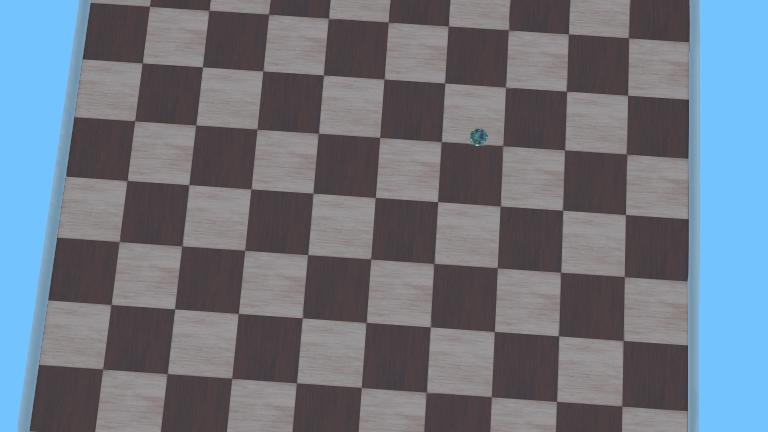
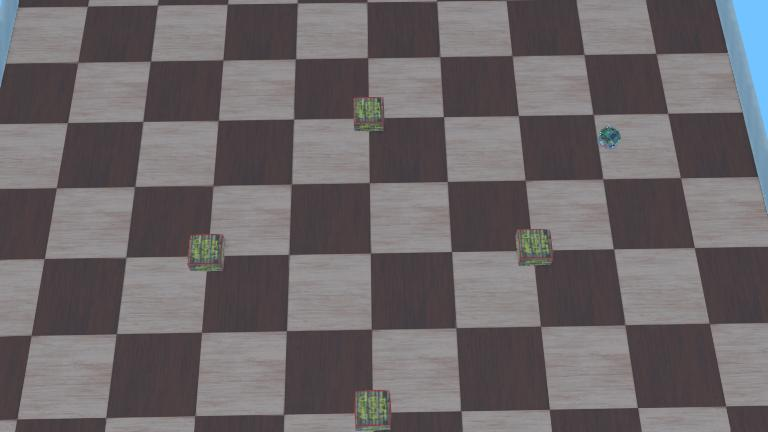
added obstacles, put encodersand sensors

diff --git a/controllers/robotito-controller/robotito-controller.py b/controllers/robotito-controller/robotito-controller.py
@@ -21,6 +21,23 @@ motor_der = robotito.getDevice("right wheel motor")
 motor_izq.setPosition(float('inf'))
 motor_der.setPosition(float('inf'))
 
+# sensores de proximidad
+ps_names = ['ps0', 'ps7', 'ps5', 'ps2']
+
+ps = []
+
+for name in ps_names:
+    sensor = robotito.getDevice(name)
+    sensor.enable(timestep)
+    ps.append(sensor)
+
+# encoders
+left_encoder = robotito.getDevice('left wheel sensor')
+right_encoder = robotito.getDevice('right wheel sensor')
+
+left_encoder.enable(timestep)
+right_encoder.enable(timestep)
+
 #tipos de movidas del robotito
 
 def avanzar(v):
@@ -75,10 +92,48 @@ acciones = [
     ("cuadrado", 999),
 
 ]
+robotito.step(timestep)
+prev_left = left_encoder.getValue()
+prev_right = right_encoder.getValue()
+WHEEL_RADIUS = 0.0205
+
+filtered_front = 0
+alpha = 0.7
 
 while robotito.step(timestep) != -1:
 
     tiempo = robotito.getTime()
+    left_pos = left_encoder.getValue()
+    right_pos = right_encoder.getValue()
+
+    delta_left = left_pos - prev_left
+    delta_right = right_pos - prev_right
+    prev_left = left_pos
+    prev_right = right_pos
+
+    left_distance = WHEEL_RADIUS * delta_left
+    right_distance = WHEEL_RADIUS * delta_right
+    robot_advance = (left_distance + right_distance) / 2.0
+
+
+    front_right = ps[0].getValue()
+    front_left = ps[1].getValue()
+    front_measure = (front_left + front_right) / 2.0
+    filtered_front = alpha * filtered_front + (1 - alpha) * front_measure
+
+    left_side = ps[2].getValue()
+    right_side = ps[3].getValue()
+
+    print(
+        f"ADV: {robot_advance*1000:.2f} | "
+        f"FILTERED F: {filtered_front:.2f} | "
+        f"RAW FF: {front_measure:.2f} | "
+        f"FL: {front_left:.2f} | "
+        f"FR: {front_right:.2f} | "
+        f"LS: {left_side:.2f} | "
+        f"RS: {right_side:.2f}",
+        flush=True
+    )
 
     # para aplicar ruidos
     noise_left = random.uniform(-0.1, 0.1)